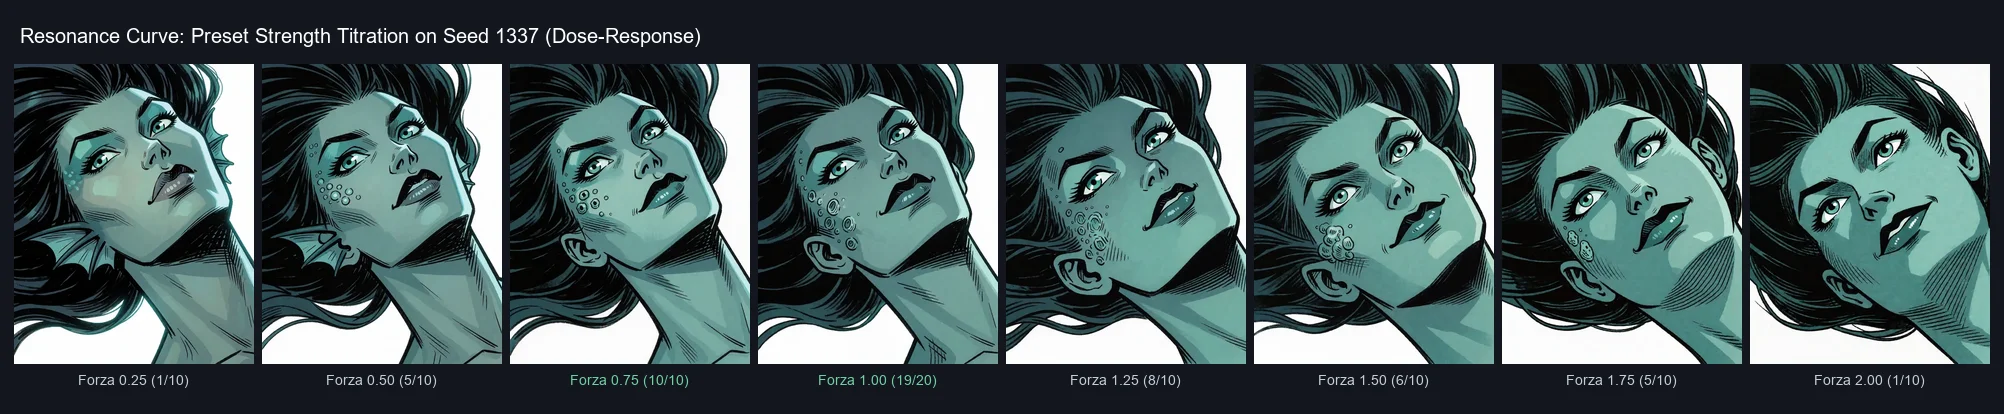
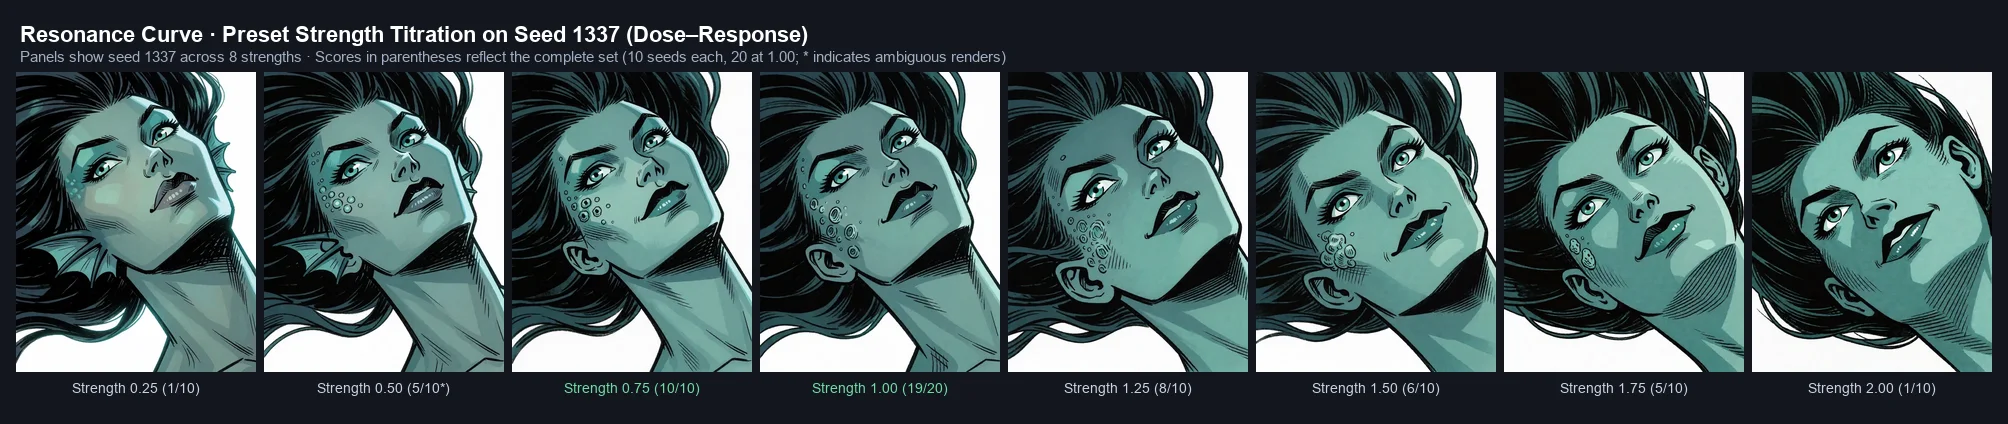
Implement figure brief: high-legibility 6-seed detail figures, 20-seed census sheets, and figure_crops.json

diff --git a/README.md b/README.md
@@ -271,8 +271,10 @@ Every set below uses the same 20 seeds, so the comparisons are **paired**, and e
 | Stock model, second prompt | 7 / 20 | [18%, 57%] | — | — |
 
 <p align="center">
-  <img src="assets/02_attribute_emergence/_figures/effect_A1_vs_A5.webp" alt="Primary Finding: Blockshuffle Permuted Blocks vs Stock Base Model across 20 Seeds" width="100%">
+  <img src="assets/02_attribute_emergence/_figures/detail_A1_vs_A5.webp" alt="Primary Finding: Blockshuffle Permuted Blocks vs Stock Base Model (First 6 Seeds)" width="100%">
 </p>
+
+> *Detail figure: First 6 canonical seeds (1337, 42, 4242145, 777, 9999, 101) cropped tight on the attribute region (all bounding boxes published in [`data/figure_crops.json`](data/figure_crops.json)). For the complete 20-seed contact sheet proving no omission, see the [Full Census Sheet (A1 vs A5)](assets/02_attribute_emergence/_figures/census_A1_vs_A5.webp).*
 
 Not one seed goes the other way in either comparison. Two controls run in the same batch are what make this mean something.
 
@@ -283,8 +285,10 @@ Not one seed goes the other way in either comparison. Two controls run in the sa
 This is the control that decides what the finding is. Without it, the result would be vulnerable to the obvious reading — *any push of that size out of the checkpoint shakes a secondary token loose*. With it, that reading is dead: the effect is a property of **which** permutation, not of **how far** it moves.
 
 <p align="center">
-  <img src="assets/02_attribute_emergence/_figures/matched_control_A1_vs_A7.webp" alt="Frobenius-Matched Control: Blockshuffle vs RANDSIGN at D = 0.0538" width="100%">
+  <img src="assets/02_attribute_emergence/_figures/detail_A1_vs_A7.webp" alt="Frobenius-Matched Control: Blockshuffle vs RANDSIGN at D = 0.0538 (First 6 Seeds)" width="100%">
 </p>
+
+> *Detail figure: First 6 canonical seeds across identical Frobenius displacement $D = 0.0538$ (published boxes in [`data/figure_crops.json`](data/figure_crops.json)). See the [Full Census Sheet (A1 vs A7)](assets/02_attribute_emergence/_figures/census_A1_vs_A7.webp) for all 20 paired seeds.*
 
 ### 5.2 The finding is the conjunction, not the perturbation
 
@@ -304,8 +308,10 @@ The attribute does not appear whenever the weights are perturbed. It appears onl
 The sharpest number in the whole experiment is the one that looks least impressive. With the ridges phrase removed, the perturbed model scores **1 / 20** — and the stock model on the complete prompt also scores **1 / 20**. Paired, they are **1 discordant seed each way, $p = 1.0$**: without the scaffold, the weight perturbation is statistically indistinguishable from not having applied it at all.
 
 <p align="center">
-  <img src="assets/02_attribute_emergence/_figures/conjunction_A1_vs_E3.webp" alt="Conjunctive Gate: Full Prompt with Temple Ridges vs Temple Ridges Phrase Removed" width="100%">
+  <img src="assets/02_attribute_emergence/_figures/detail_A1_vs_E3.webp" alt="Conjunctive Gate: Full Prompt with Temple Ridges vs Temple Ridges Phrase Removed (First 6 Seeds)" width="100%">
 </p>
+
+> *Detail figure: First 6 canonical seeds with vs. without the morphological temple-ridges phrase (published boxes in [`data/figure_crops.json`](data/figure_crops.json)). See the [Full Census Sheet (A1 vs E3)](assets/02_attribute_emergence/_figures/census_A1_vs_E3.webp) for all 20 paired seeds.*
 
 So the 2×2 is:
 
@@ -343,6 +349,8 @@ Applying the same preset at scaled strength (10 seeds per point, complete prompt
   <img src="assets/02_attribute_emergence/_figures/dose_response_strip.webp" alt="Resonance Curve: Strength Titration on Seed 1337 across 8 Strengths" width="100%">
 </p>
 
+> *Resonance curve: Panels show seed 1337 across 8 preset strengths. Scores in parentheses reflect the complete set (10 seeds per point, 20 at 1.00; asterisks denote ambiguous renders).*
+
 There is an optimum around $0.75$–$1.00$ and both ends fail. That argues against "any disturbance of the weights helps" — at $2.00$ the displacement is largest and the attribute is gone. But at $n = 10$ the Wilson interval on $6/10$ is [31%, 83%]: **the extremes are separated, the intermediate points are not ordered by these data.**
 
 ### 5.5 What emerges is not quite what was asked for
@@ -352,6 +360,8 @@ The prompt says `studding one earlobe`. Across every positive render, the cluste
 <p align="center">
   <img src="assets/02_attribute_emergence/_figures/placement_crops.webp" alt="Morphological Landing: Barnacle Clusters Form on Cheekbone and Temple (Not on Earlobe)" width="100%">
 </p>
+
+> *Morphological landing: Individual 240×240 crops across 6 positive renders (published boxes in [`data/figure_crops.json`](data/figure_crops.json)), demonstrating that clusters consistently land on the cheekbone and temple rather than on the prompt-specified earlobe.*
 
 ### 5.6 What this does **not** establish
 
